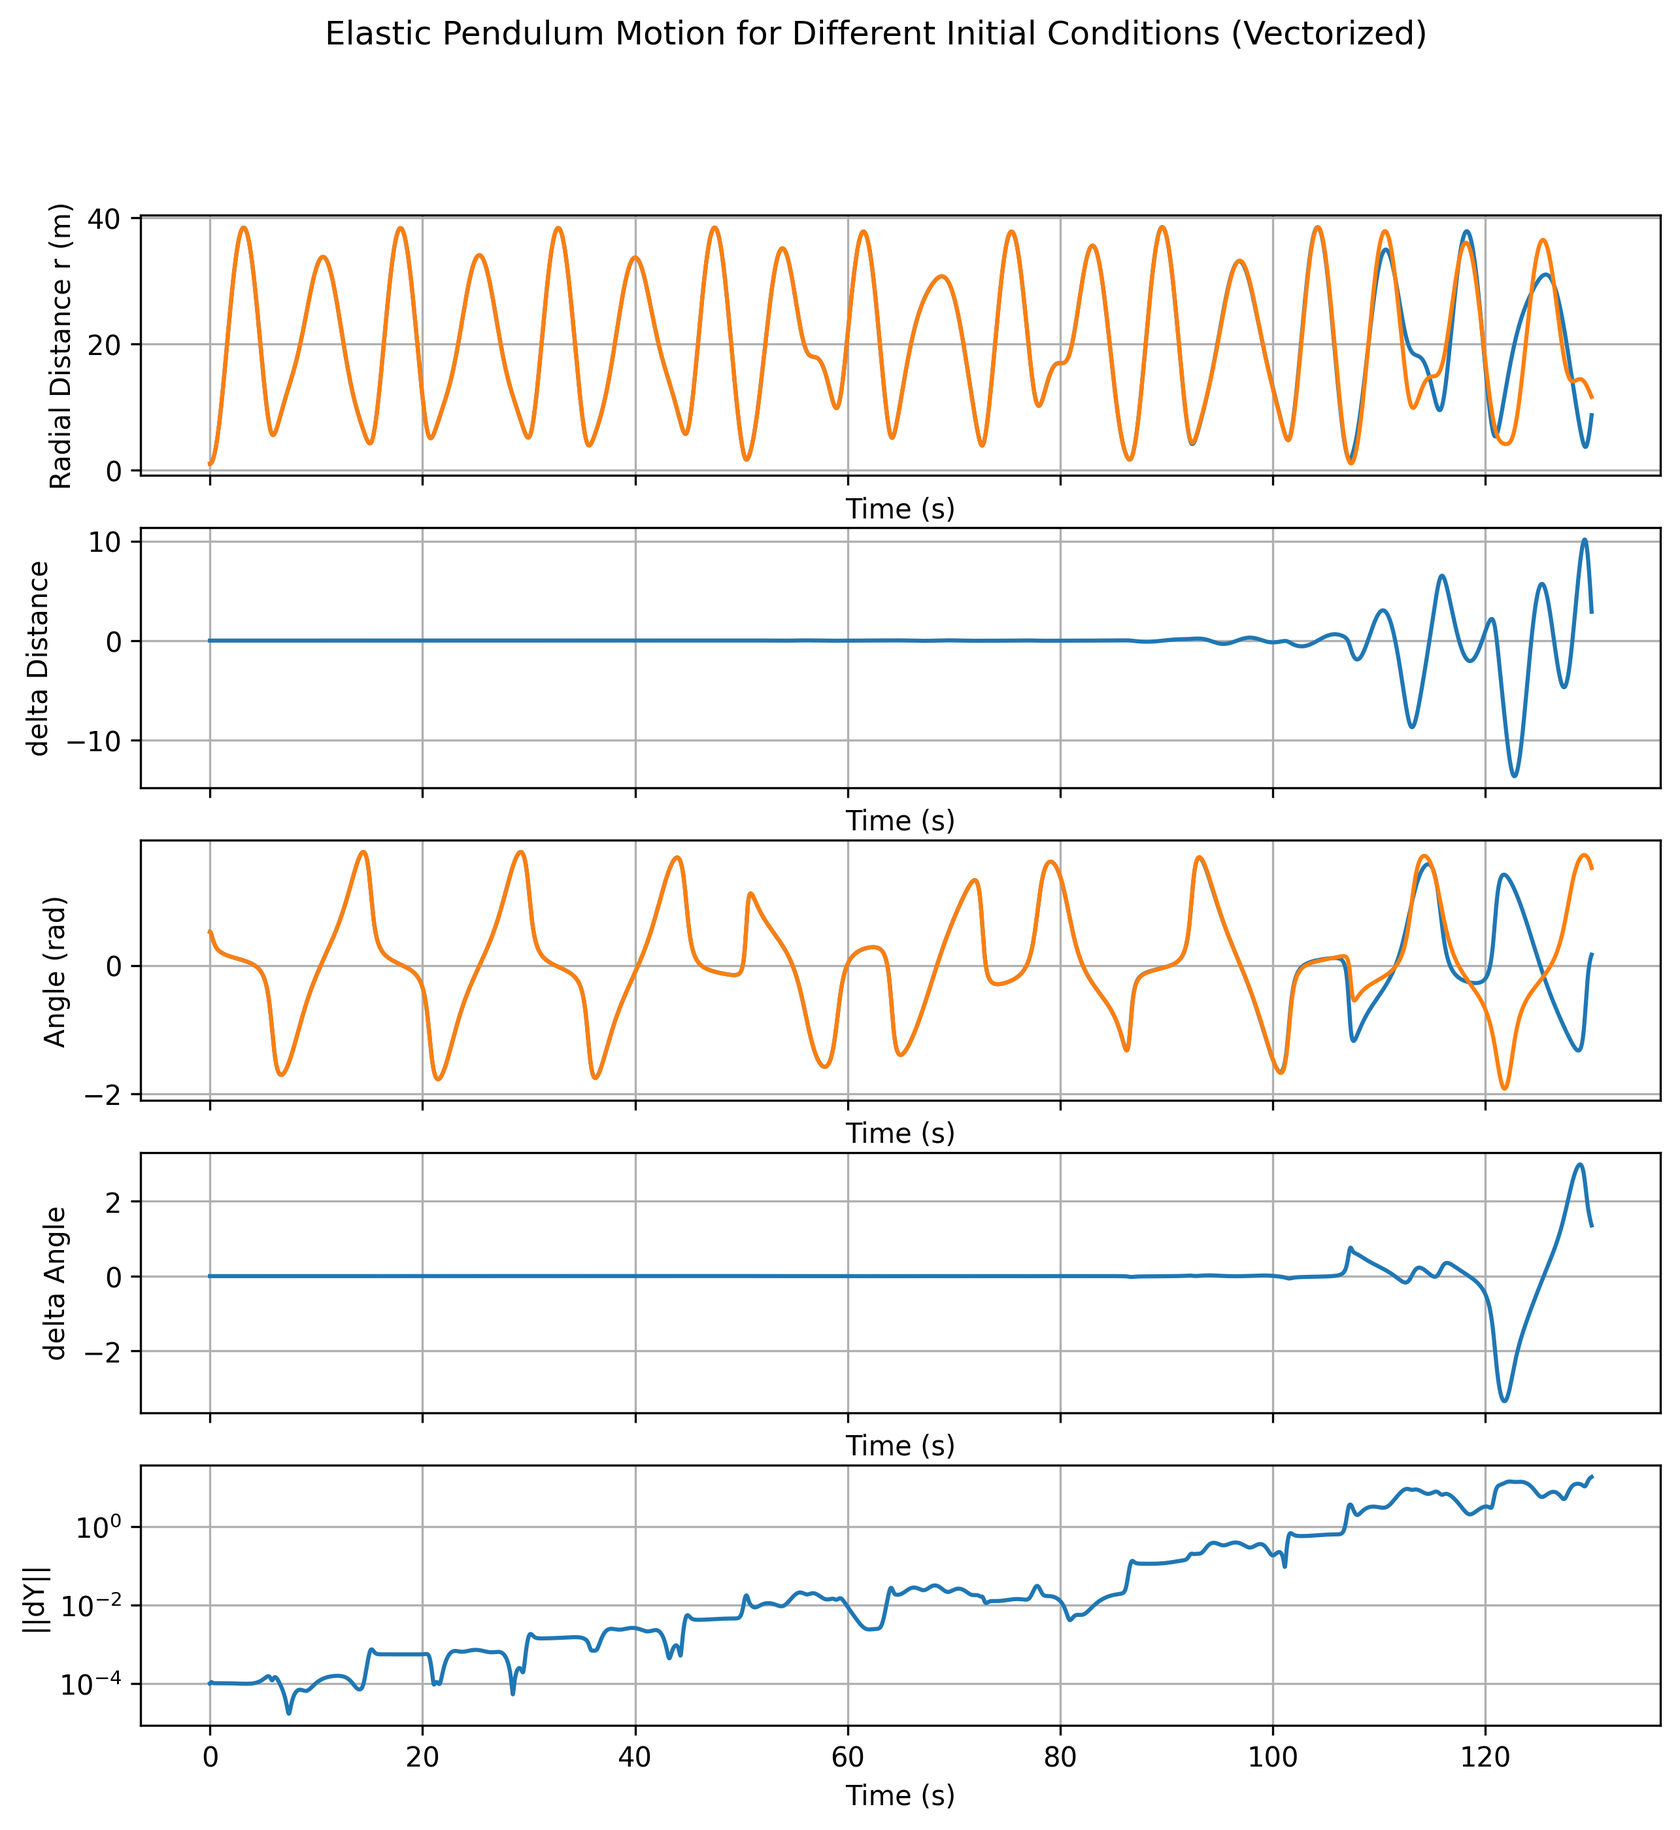
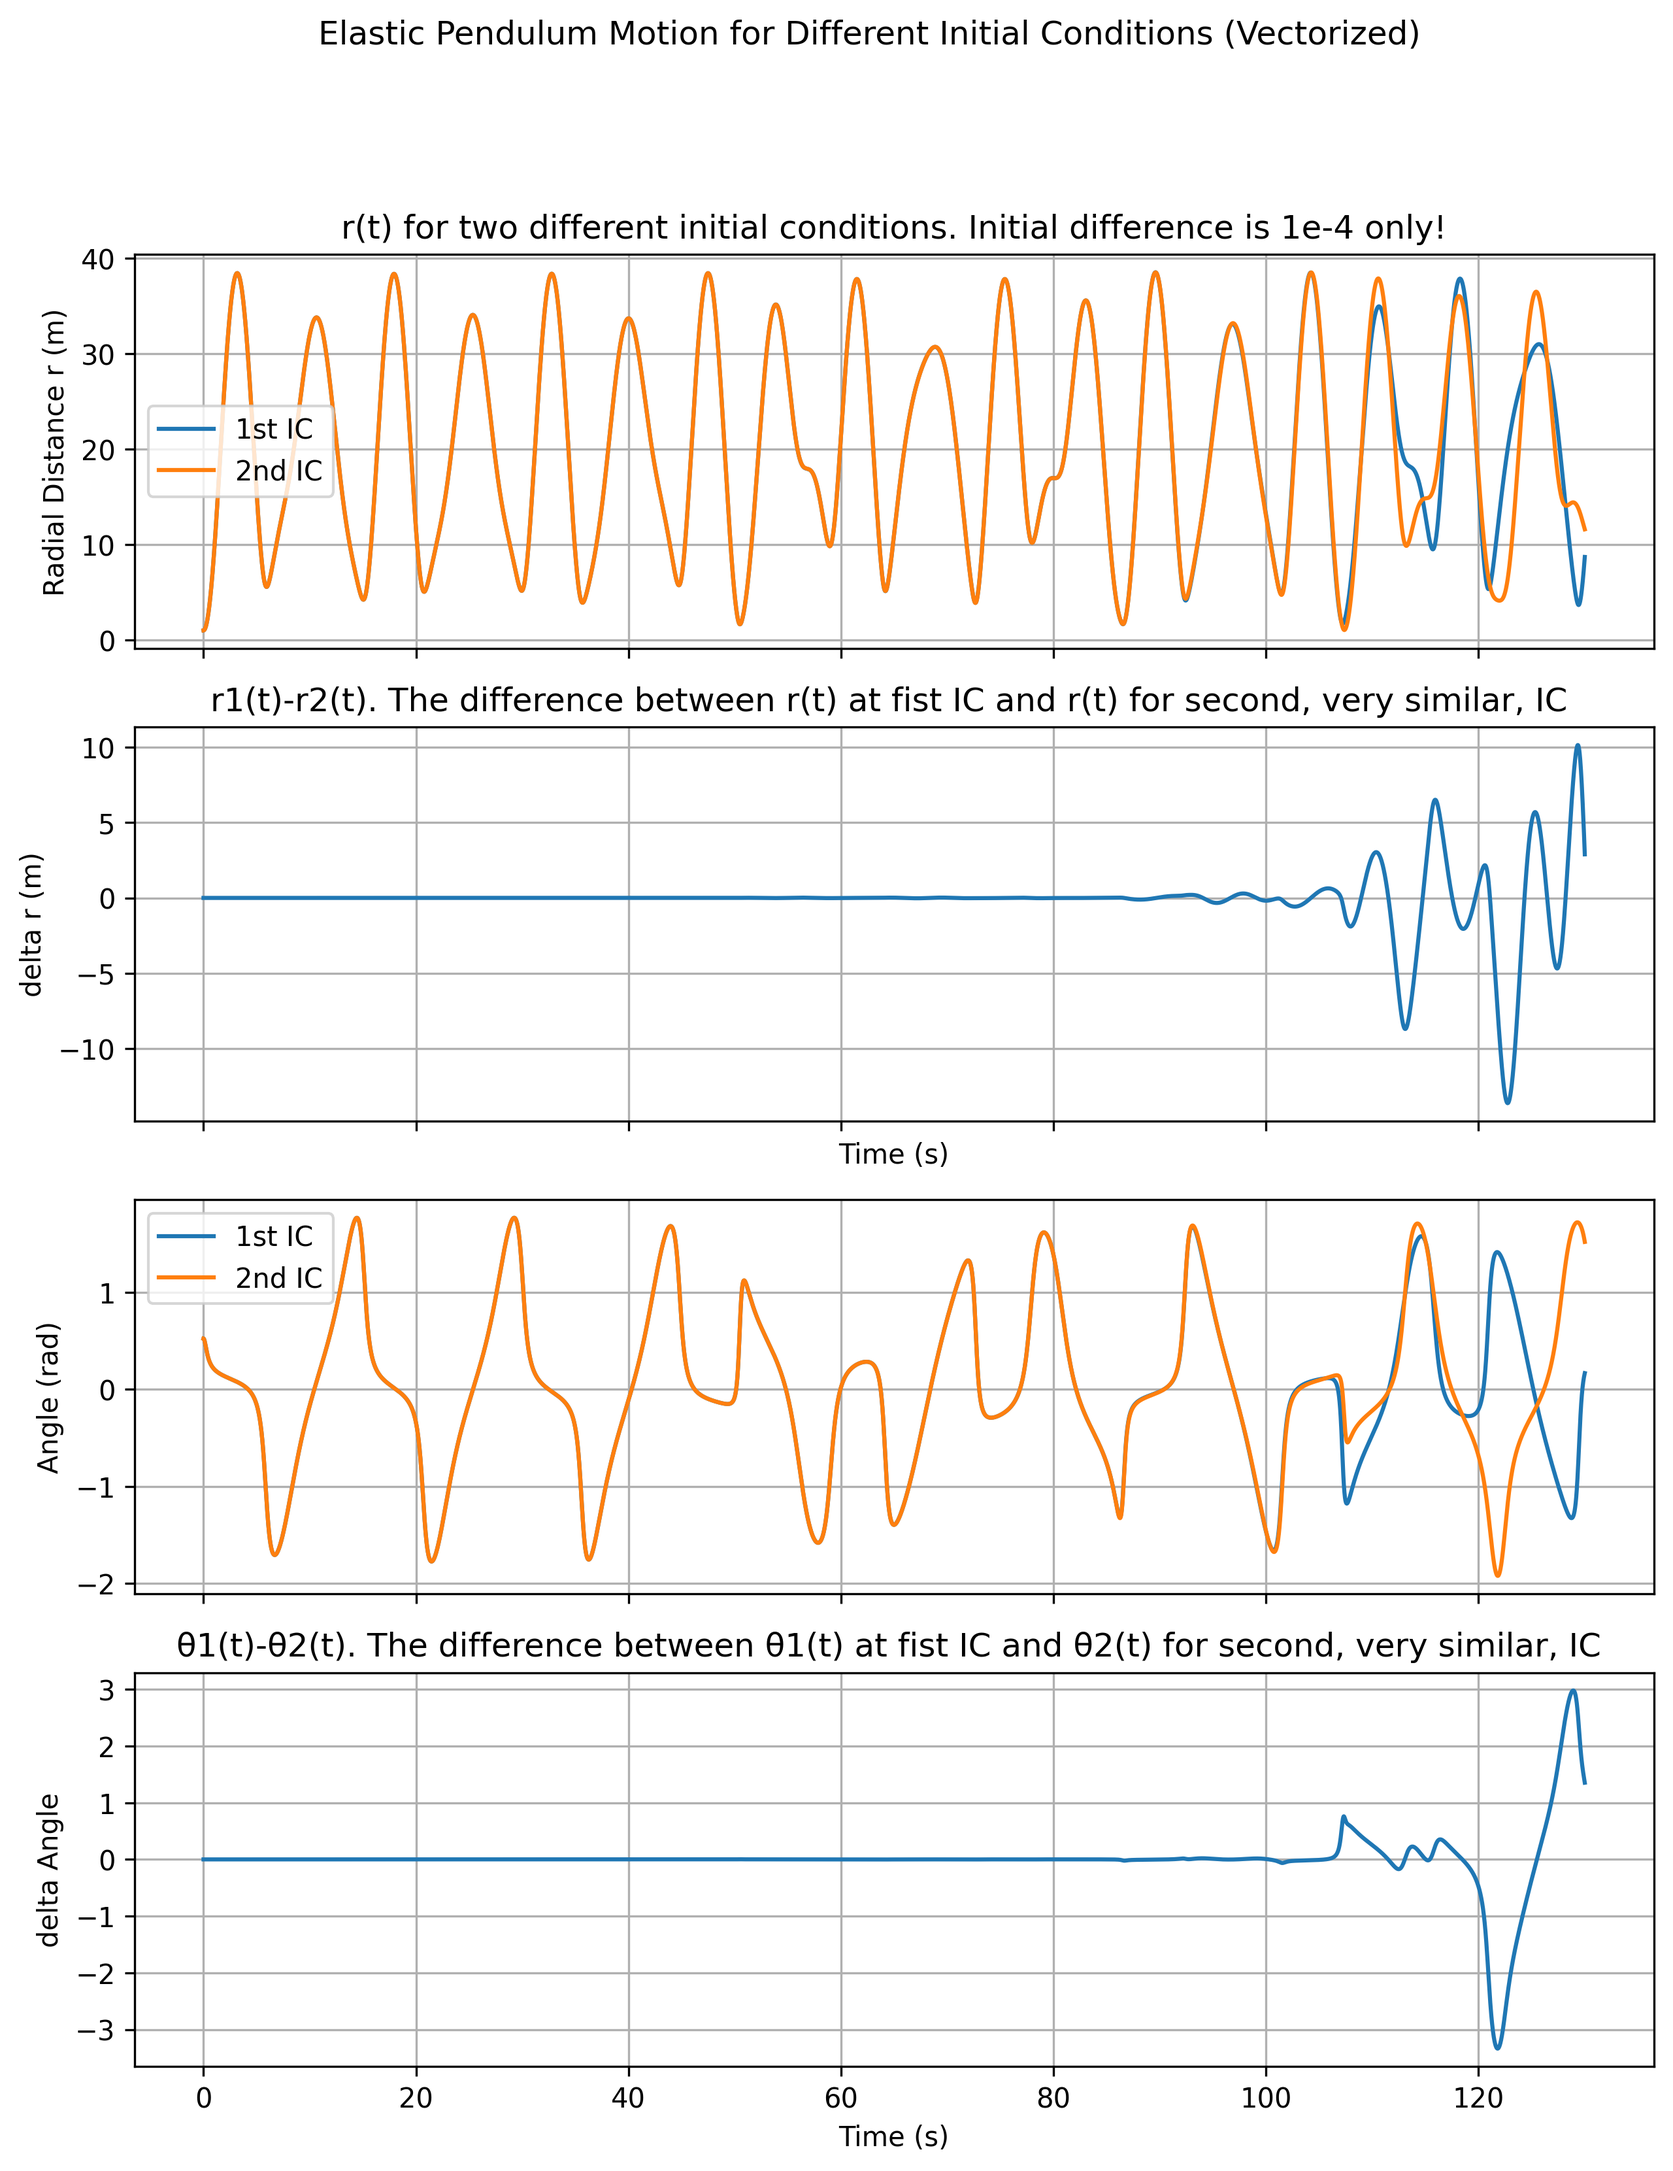
||delta Y|| in a logarithmic scale. Chart.

Changed region(s): [[0.0, 0.0932, 1.0, 0.9946], [0.1875, 0.0, 0.8438, 0.0311], [0.0, 0.3108, 0.0312, 0.4662]]

diff --git a/equations_of_motion.py b/equations_of_motion.py
@@ -19,7 +19,7 @@ def energy(Y, n_ic, g, k, m, L0, epsilon):
 g, k, m, L0, epsilon = 9.81, 1.0, 1.0, 10.0, -1
 
 initial_conditions = np.array([
-    [1 +0   , np.pi/6, 0.0, 0.0],
+    [1      , np.pi/6, 0.0, 0.0],
     [1 +1e-4, np.pi/6, 0.0, 0.0],
     ]).transpose()
 
@@ -42,8 +42,6 @@ sol = solve_ivp(
     vectorized=True
 )
 
-fig, axes = plt.subplots(5, 1, figsize=(10, 10), sharex=True)
-labels = ["Case 1", "Case 2", "Case 3", "Case 4"]
 
 n_ic = initial_conditions.shape[1]
 Y = sol.y.reshape(4, n_ic, -1)
@@ -56,40 +54,48 @@ print(f'Largest Lyapunov exponent for initial condition {0+1}: {lyapunov_exponen
 E = energy(Y, n_ic, g, k, m, L0, epsilon)
 for i in range(n_ic):
     assert np.max(abs(E[i] - E[i][0])) < 1e-8
+
 # Charts:
+fig, axes = plt.subplots(4, 1, figsize=(10, 12), sharex=True)
 # r
-axes[0].plot(sol.t, Y[0][0]) # Radial Distance r (m)
-axes[0].plot(sol.t, Y[0][1]) # Radial Distance r (m)
-axes[0].set_xlabel("Time (s)")
+axes[0].plot(sol.t, Y[0][0] , label='1st IC') # Radial Distance r (m) for first initial condition
+axes[0].plot(sol.t, Y[0][1], label='2nd IC') # Radial Distance r (m) for second initial condition
 axes[0].set_ylabel("Radial Distance r (m)")
+axes[0].set_title("r(t) for two different initial conditions. Initial difference is 1e-4 only!")
+axes[0].legend()
 # difference of r
 axes[1].plot(sol.t, dY[0])
 axes[1].set_xlabel("Time (s)")
-axes[1].set_ylabel("delta Distance")
+axes[1].set_ylabel("delta r (m)")
+axes[1].set_title("r1(t)-r2(t). The difference between r(t) at fist IC and r(t) for second, very similar, IC ")
 
 # theta
-axes[2].plot(sol.t, Y[1][0]) # Angle (rad)
-axes[2].plot(sol.t, Y[1][1]) # Angle (rad)
-axes[2].set_xlabel("Time (s)")
+axes[2].plot(sol.t, Y[1][0],  label='1st IC') # Angle (rad)
+axes[2].plot(sol.t, Y[1][1], label='2nd IC') # Angle (rad)
 axes[2].set_ylabel("Angle (rad)")
+axes[2].legend()
 # difference of theta
 axes[3].plot(sol.t, dY[1])
 axes[3].set_xlabel("Time (s)")
 axes[3].set_ylabel("delta Angle")
-
-# ||dY||
-axes[4].plot(sol.t, norm_dY)
-axes[4].set_xlabel("Time (s)")
-axes[4].set_ylabel("||dY||")
-axes[4].set_yscale("log")
-
+axes[3].set_title("θ1(t)-θ2(t). The difference between θ1(t) at fist IC and θ2(t) for second, very similar, IC ")
 
 axes[0].grid()
 axes[1].grid()
 axes[2].grid()
 axes[3].grid()
-axes[4].grid()
 
 plt.suptitle("Elastic Pendulum Motion for Different Initial Conditions (Vectorized)")
 plt.savefig("elastic_pendulum_vectorized.png", dpi=300, bbox_inches='tight')
 plt.close()
+
+#  Another chart. ||delta Y|| in a logarithmic scale
+fig2, axes2 = plt.subplots(1, 1, figsize=(10, 6), sharex=True)
+# ||dY||
+axes2.plot(sol.t, norm_dY)
+axes2.set_xlabel("Time (s)")
+axes2.set_ylabel("||dY||")
+axes2.set_yscale("log")
+axes2.grid()
+plt.suptitle("||delta Y|| in a logarithmic scale")
+plt.savefig("norma_of_delta_Y.png", dpi=300, bbox_inches='tight')
